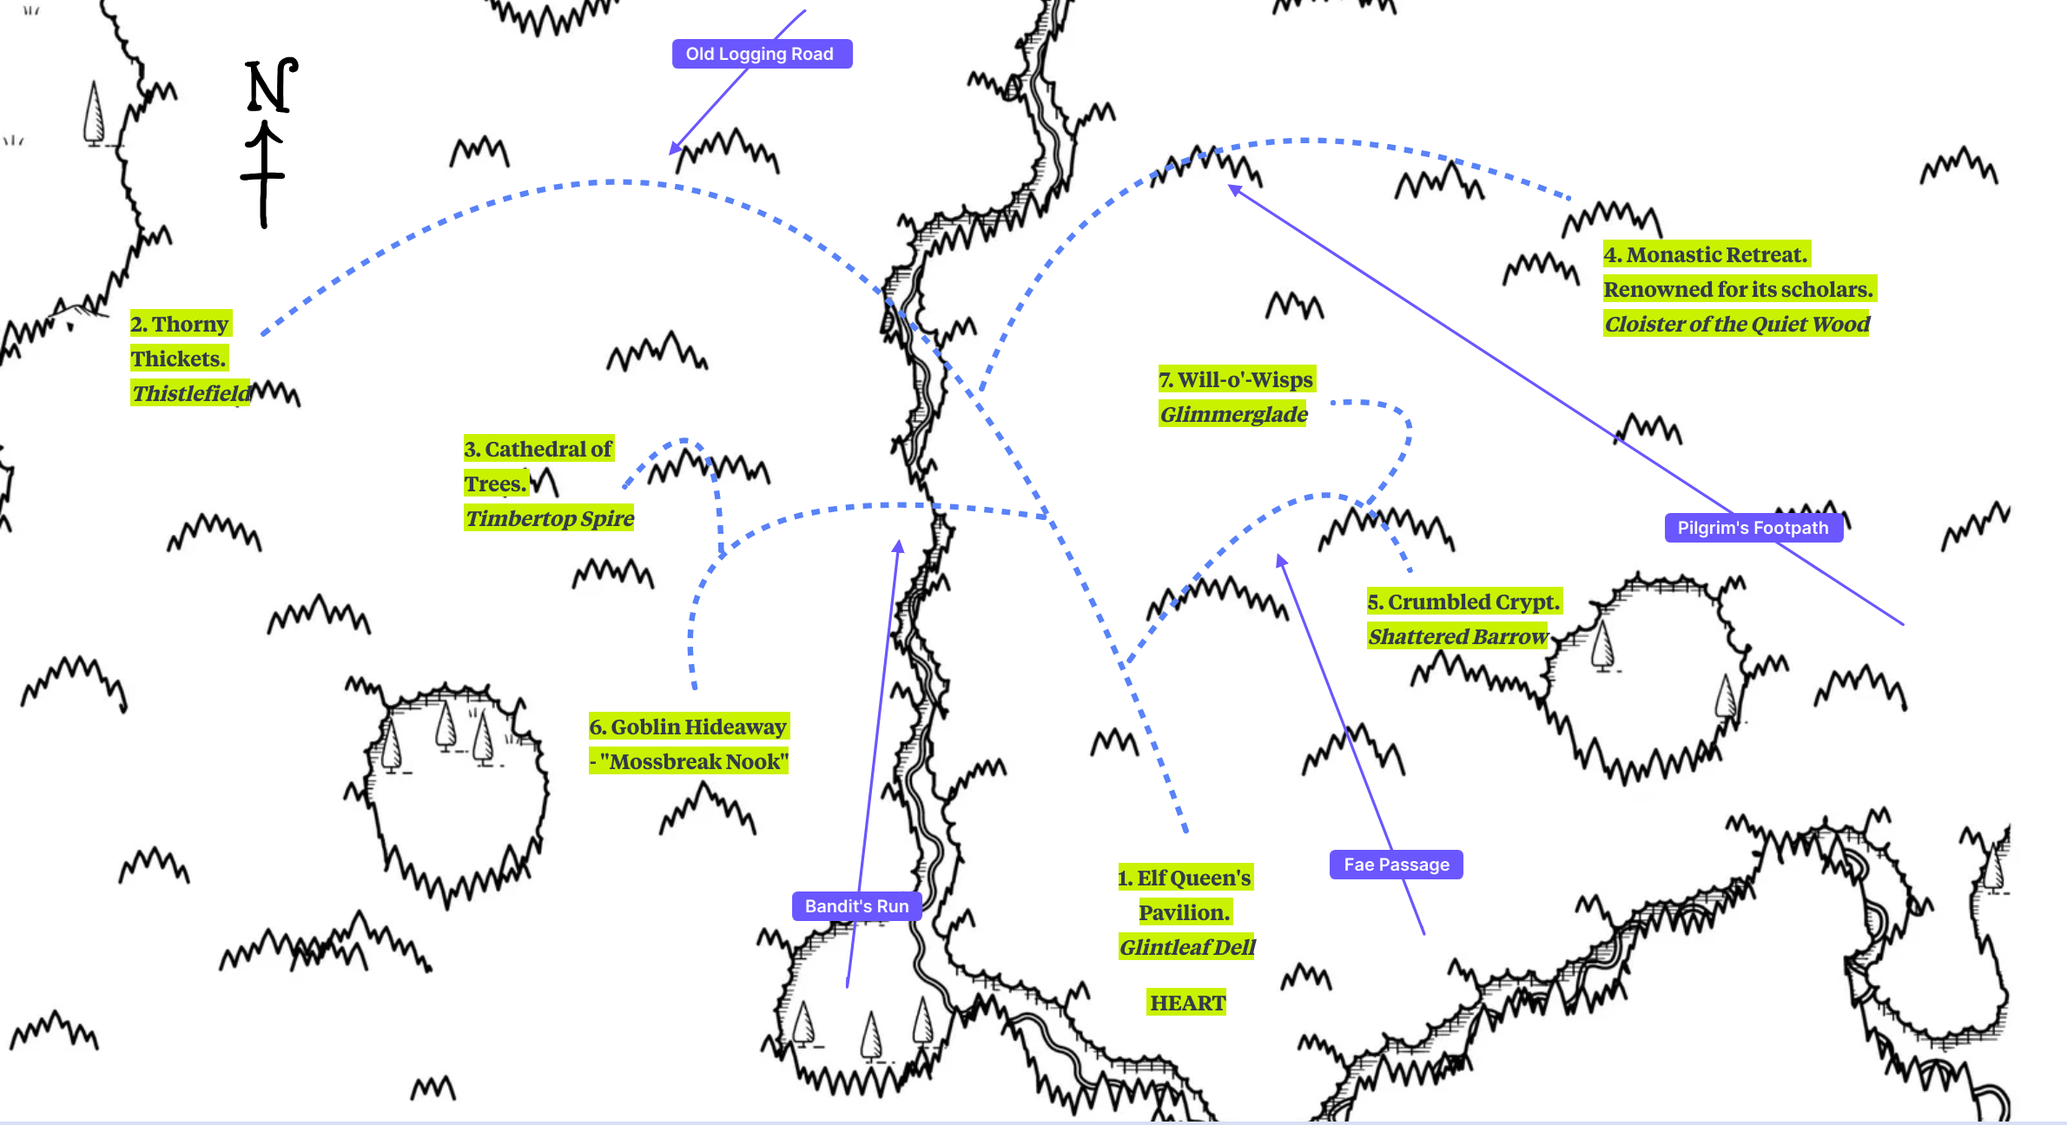
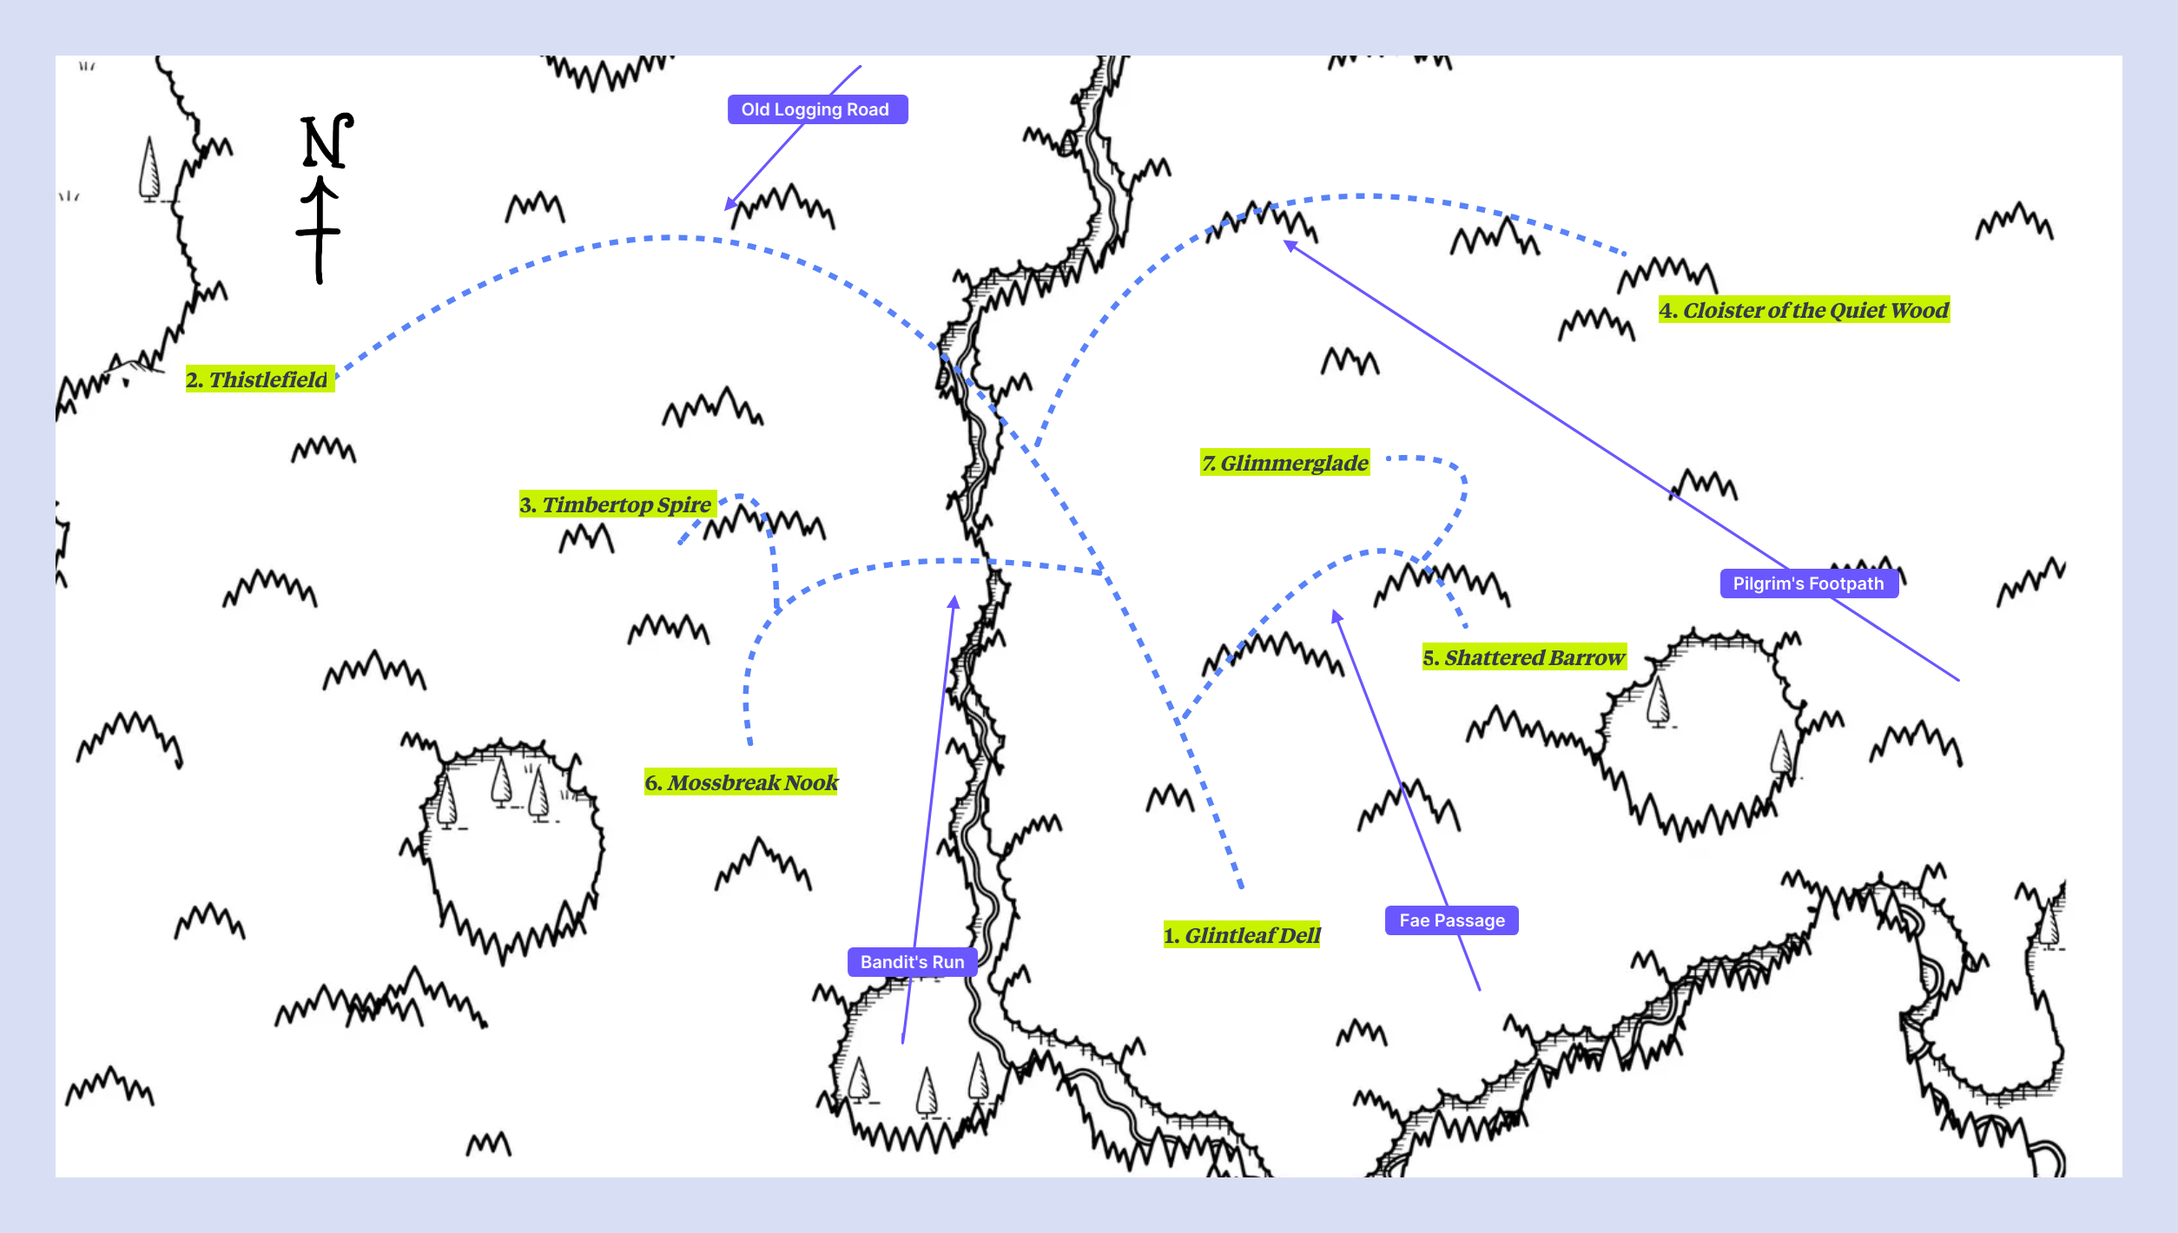
added forest names and updated example

diff --git a/wip/2e/forestcrawl.md b/wip/2e/forestcrawl.md
@@ -23,7 +23,7 @@ grand_parent: WIP
 
 > If the party is interrupted, stops to investigate something, rest, etc while exploring a forested zone, there may not be enough time to fully explore every connected **Detail**. In these cases, rely on the fiction and common sense to determine how much time is left in the day. 
 
-## Create The Forest
+## Draw The Trails
 
 1. On a flat sheet of paper, draw a dot to signify the forest's **Heart**.
 2. Draw a single curving line stemming out from the **Heart**. This is the **trunk**. 
@@ -34,12 +34,57 @@ grand_parent: WIP
 
 > If you'd like to increase the number of **Details** on the map, you can either add more **branches** and **twigs**, or place a dot at the intersection of lines, e.g. where the **trunk** meets a **branch**.
 
-### Populating The Forest
+### Create The Forest
 
-1. Follow the instructions found in the [Details](#details) section.
-2. Roll on the [Trail Markers](#trail-markers) table for the **trunk**, as well as each **branch**. **Twigs** use same trails as their respective **branches**.  Label each trail!
-3. Roll on the [Spoor Types](#spoor-types) table for every trail. Note the **spoor** for each.
-4. Roll on the [Forest Encounters](#forest-encounters) table fore each [Detail](#detail), recording and expanding on the results. 
+1. Roll on the [Trail Markers](#trail-markers) table for the **trunk**, as well as each **branch**. **Twigs** use same trails as their respective **branches**. Label each trail!
+2. Roll on the [Spoor Types](#spoor-types) table for every trail. Note the **spoor** for each.
+3. Follow the instructions [Details](#details) section to create **Details** for each dot.
+4. Roll on the [Forest Encounters](#forest-encounters) table for each [Detail](#detail), recording and expanding on the results. 
+5. Name each [**Detail**](#naming-details), and the [Forest](#name-the-forest) itself.
+
+### Trail Markers
+
+|        |                        |
+| ------ | ---------------------- |
+| **d6** | **Marker**             |
+| **1**  | **Animal Path**        |
+| **2**  | **Merchant's Road**    |
+| **3**  | **Fae Passage**        |
+| **4**  | **Bandit's Run**       |
+| **5**  | **Pilgrim's Footpath** |
+| **6**  | **Old Logging Road**   |
+| **7**  | **Trail Tree**         |
+| **8**  | **Treeline Heights**   |
+| **9**  | **Cloistered Grove**   |
+| **10** | **River Gulch**        |
+| **11** | **Spore Saturated**    |
+| **12** | **War Route**          |
+
+### Spoor Types 
+
+|         |                               |
+| ------- | ----------------------------- |
+| **d20** | **Spoor**                     |
+| **1**   | **Distant Singing**           |
+| **2**   | **Badger Holes**              |
+| **3**   | **Serpent Traces**            |
+| **4**   | **Enormous Footprints**       |
+| **5**   | **Rabbit Droppings**          |
+| **6**   | **Animals Acting Strangely**  |
+| **7**   | **Large Bird Feathers**       |
+| **8**   | **Fox Prints**                |
+| **9**   | **Faint Laughter**            |
+| **10**  | **Bear Rubbings**             |
+| **11**  | **A smoldering campsite**     |
+| **12**  | **Fresh Spiderwebs**          |
+| **13**  | **Archaic Tree Carvings**     |
+| **14**  | **Dozens Of Stone Piles**     |
+| **15**  | **Claw Marks**                |
+| **16**  | **Phosphorescent Toadstools** |
+| **17**  | **Deer Tracks**               |
+| **18**  | **Swaying Plants**            |
+| **19**  | **Peripheral Images**         |
+| **20**  | **Muted Bells**               |
 
 ## Details
 
@@ -212,6 +257,35 @@ grand_parent: WIP
 | **19**  | **Guardian**              |
 | **20**  | **Bloom Field**           |
 
+
+### Creating Forest Encounters
+
+#### Forest Encounters
+
+|         |                                                                                |
+| ------- | ------------------------------------------------------------------------------ |
+| **d20** | **Encounter**                                                                  |
+| **1**   | An enormous deer, its antlers shimmering silver.                               |
+| **2**   | The remnants of an old watchtower hidden dense forest growth.                  |
+| **3**   | A snarling pack of wolves surrounding a fresh kill.                            |
+| **4**   | Suddenly, the usual sounds of nature eerily absent.                            |
+| **5**   | A wide river where otters are playing with something shiny.                    |
+| **6**   | A circle of perfect mushrooms. Blue-white wings flutter between.               |
+| **7**   | A gnarled tree trunk bearing an uncannily carved face on its trunk.            |
+| **8**   | Naiads splashing in a small pond. Their teeth are fanged, like daggers.        |
+| **9**   | A hillside cave, wafting the scent of damp and decay.                          |
+| **10**  | A trap, hastily set and poorly concealed.                                      |
+| **11**  | A tree acting as makeshift bridge over a glittering stream.                    |
+| **12**  | Bees swarm protectively around a tree brimming with honeycombs.                |
+| **13**  | Wild berries grow in abundance, a feast for foragers.                          |
+| **14**  | Shadowy figures dart between the trees. Hushed voices call out to one another. |
+| **15**  | A wounded animal, whining pitifully as it limps.                               |
+| **16**  | A spectacular waterfall, rainbows dancing in its spray.                        |
+| **17**  | A dense thicket of thorns, nearly impassable.                                  |
+| **18**  | A patch of quicksand disguised as soft ground.                                 |
+| **19**  | A bird circles ominously overhead. It seems to be following the party.         |
+| **20**  | The sky is suddenly darkened by a large object streaking above.                |
+
 ## Naming Details
 
 1. Roll a d100 on the [Location Names](#location-names) table twice, first for the adjective and then for the noun. 
@@ -222,7 +296,7 @@ grand_parent: WIP
 - Use contrasting words (e.g. _Twisted Canopy_) to evoke an interesting detail about the location.
 - Make it sound nice. Alliteration and pleasing combinations can create pleasant sounds. _Whispering Woods_ is more pleasing to the ear than _Tangled Woods._ 
 
-### Location Names
+### Detail Names
 
 |          |               |             |
 | -------- | ------------- | ----------- |
@@ -328,84 +402,50 @@ grand_parent: WIP
 | **99**   | Forsaken      | Cemetery    |
 | **100**  | Grassy        | Waterfall   |
 
-#### Trail Markers
+### Forest Names
 
-|        |                        |
-| ------ | ---------------------- |
-| **d6** | **Marker**             |
-| **1**  | **Animal Path**        |
-| **2**  | **Merchant's Road**    |
-| **3**  | **Fae Passage**        |
-| **4**  | **Bandit's Run**       |
-| **5**  | **Pilgrim's Footpath** |
-| **6**  | **Old Logging Road**   |
-| **7**  | **Trail Tree**         |
-| **8**  | **Treeline Heights**   |
-| **9**  | **Cloistered Grove**   |
-| **10** | **River Gulch**        |
-| **11** | **Spore Saturated**    |
-| **12** | **War Route**          |
+|         |               |             |
+| ------- | ------------- | ----------- |
+| **d66** | **Adjective** | **Noun**    |
+| **11**  | Lost          | Woods       |
+| **12**  | Secluded      | Dell        |
+| **13**  | Towering      | Trails      |
+| **14**  | Dappled       | Waterfall   |
+| **15**  | Rustling      | Coppice     |
+| **16**  | Mystic        | Weald       |
+| **21**  | Evergreen     | Sanctuary   |
+| **22**  | Solitary      | Shroud      |
+| **23**  | Fertile       | Veil        |
+| **24**  | Quiet         | Honeysuckle |
+| **25**  | Shadowy       | Ivy         |
+| **26**  | Thorny        | Kestrel     |
+| **31**  | Vibrant       | Loam        |
+| **32**  | Verdant       | Mushrooms   |
+| **33**  | Yellowed      | Nightshade  |
+| **34**  | Bountiful     | Owlet       |
+| **35**  | Silent        | Pinecone    |
+| **36**  | Dewy          | Quail       |
+| **41**  | Fluttering    | Raindrop    |
+| **42**  | Glistening    | Squirrel    |
+| **43**  | Harmonious    | Upland      |
+| **44**  | Inhabited     | Yarrow      |
+| **45**  | Jubilant      | Copse       |
+| **46**  | Whispering    | Bramble     |
+| **51**  | Looming       | Gully       |
+| **52**  | Nurturing     | Thicket     |
+| **53**  | Overgrown     | Clearing    |
+| **54**  | Pristine      | Grove       |
+| **55**  | Whistling     | Pines       |
+| **56**  | Shadowed      | Canopy      |
+| **61**  | Emerald       | Leaves      |
+| **62**  | Moss-covered  | Hollow      |
+| **63**  | Shimmering    | Trail       |
+| **64**  | Blossoming    | Ferns       |
+| **65**  | Amber         | Orchard     |
+| **66**  | Forgotten     | Glade       |
 
-### Spoor Types 
-
-|         |                               |
-| ------- | ----------------------------- |
-| **d20** | **Spoor**                     |
-| **1**   | **Distant, Haunting Singing** |
-| **2**   | **Badger Holes**              |
-| **3**   | **Serpent Traces**            |
-| **4**   | **Enormous Footprints**       |
-| **5**   | **Rabbit Droppings**          |
-| **6**   | **Animals Acting Strangely**  |
-| **7**   | **Large Bird Feathers**       |
-| **8**   | **Fox Prints**                |
-| **9**   | **Faint Laughter**            |
-| **10**  | **Bear Rubbings**             |
-| **11**  | **A smoldering campsite**     |
-| **12**  | **Fresh Spiderwebs**          |
-| **13**  | **Archaic Tree Carvings**     |
-| **14**  | **Dozens Of Stone Piles**     |
-| **15**  | **Claw Marks**                |
-| **16**  | **Phosphorescent Toadstools** |
-| **17**  | **Deer Tracks**               |
-| **18**  | **Swaying Plants**            |
-| **19**  | **Peripheral Images**         |
-| **20**  | **Muted Bells**               |
-
-### Forest Encounters
-
-|         |                                                                                |
-| ------- | ------------------------------------------------------------------------------ |
-| **d20** | **Encounter**                                                                  |
-| **1**   | An enormous deer, its antlers shimmering silver.                               |
-| **2**   | The remnants of an old watchtower hidden dense forest growth.                  |
-| **3**   | A snarling pack of wolves surrounding a fresh kill.                            |
-| **4**   | Suddenly, the usual sounds of nature eerily absent.                            |
-| **5**   | A wide river where otters are playing with something shiny.                    |
-| **6**   | A circle of perfect mushrooms. Blue-white wings flutter between.               |
-| **7**   | A gnarled tree trunk bearing an uncannily carved face on its trunk.            |
-| **8**   | Naiads splashing in a small pond. Their teeth are fanged, like daggers.        |
-| **9**   | A hillside cave, wafting the scent of damp and decay.                          |
-| **10**  | A trap, hastily set and poorly concealed.                                      |
-| **11**  | A tree acting as makeshift bridge over a glittering stream.                    |
-| **12**  | Bees swarm protectively around a tree brimming with honeycombs.                |
-| **13**  | Wild berries grow in abundance, a feast for foragers.                          |
-| **14**  | Shadowy figures dart between the trees. Hushed voices call out to one another. |
-| **15**  | A wounded animal, whining pitifully as it limps.                               |
-| **16**  | A spectacular waterfall, rainbows dancing in its spray.                        |
-| **17**  | A dense thicket of thorns, nearly impassable.                                  |
-| **18**  | A patch of quicksand disguised as soft ground.                                 |
-| **19**  | A bird circles ominously overhead. It seems to be following the party.         |
-| **20**  | The sky is suddenly darkened by a large object streaking above.                |
 
 ## Example Forest
-
-### Draw Trails
-
-- We start by creating the structure of our forest, drawing the first dot representing the **Heart** in the center, Southern part of the region.
-- We then draw the **trunk**, creating a gentle curve towards the Northwest.
-- Then we draw three **branches** extending from the **trunk**, one towards the East (closer to the **Heart**) and the other towards the West and further North. 
-- Finally we draw a single **twig** off of each **branch**.
 
 ### Number Dots
 
@@ -416,6 +456,13 @@ grand_parent: WIP
 - `4`, `5`, and `6`, are each at the end of a **branch**.
 - `3` and `7` are each at the end of **twigs**, to the East and West of the **trunk** respectively. 
 
+### Draw Trails
+
+- We start by creating the structure of our forest, drawing the first dot representing the **Heart** in the center, Southern part of the region.
+- We then draw the **trunk**, creating a gentle curve towards the Northwest.
+- Then we draw three **branches** extending from the **trunk**, one towards the East (closer to the **Heart**) and the other towards the West and further North. 
+- Finally we draw a single **twig** off of each **branch**.
+
 ### Assign Trail Markers
 
 For the **trunk** as well as each **branch** and **twig**, we'll roll on the **Trail Markers** table (**d12**):
@@ -424,11 +471,18 @@ For the **trunk** as well as each **branch** and **twig**, we'll roll on the **T
   - For the Eastern **branch** closest to the **Heart** we got a **3** (_Fae Passage_).
   - For the Western **branch** closest to the **Heart** we got a **4** (_Bandit's Run_).
   - For the Eastern **branch** farthest from the **Heart** we got a **5** (_Pilgrim's Footpath_).
-  
+
+### Assign Trail Spoor
+
+- For each Trail we roll on the [Spoor Types](#spoor-types) table. 
+- For the _Old Logging Road_ we rolled a **4** (Enormous Footprints).
+- For the _Fae Passage_ we rolled a **12** (Fresh Spiderwebs).
+- For the _Bandit's Run_ we rolled a **13** (Archaic Tree Carvings).
+- For the _Pilgrim's Footpath_ we rolled an **18** (Swaying Plants).
+
 ### Assign Details
 
-Next we'll roll on the provided tables to generate features for each **Detail**.
-- First up is the **Heart (1)**, and we roll on the [Special](#special) table (**d20**). We got an **11** (_Elf Queen's Pavilion_).
+Next we'll roll on the provided tables to generate features for each **Detail**. First create the **Heart (1)** by rolling on the [Special](#special) table (**d20**). We got an **11** (_Elf Queen's Pavilion_).
 
 For each remaining **Detail**, we first roll on the [Detail Types](#detail-types) table, then on the associated table:
 - **Detail (2)**: We roll a **d6**: a **4** (Hazard). Now we roll a **d12** on the [Hazards](#hazards) table: a **6** (_Thorny Thickets_).
@@ -438,9 +492,21 @@ For each remaining **Detail**, we first roll on the [Detail Types](#detail-types
 - **Detail (6)**: We roll a **d6**: **3** (Lair). Roll a **d12** on the [Lairs](#lairs) table: an **8** (_Goblin Hideaway_).
 - **Detail (7)**: We roll a **d6**: **6** (Special). Roll a **d20** on the Special table: a **5** (_Will-o'-Wisps_).
 
+### Create Encounters
+
+Next, we create forest encounters by rolling a **d20** on the [Forest Encounters](#forest-encounters) table for each **Detail**.
+
+1. We roll an **8**: _Naiads splashing in a small pond. Their teeth are fanged, like daggers._
+2. We roll a **17**: _A dense thicket of thorns, nearly impassable._
+3. We roll a **15**: _A wounded animal, whining pitifully as it limps._
+4. We roll a **2**: _The remnants of an old watchtower hidden in dense forest growth._
+5. We roll a **7**: _A gnarled tree trunk bearing an uncannily carved face on its trunk._
+6. We roll a **3**: _A snarling pack of wolves surrounding a fresh kill._
+7. We roll a **6**: _A circle of perfect mushrooms. Blue-white wings flutter between._
+
 ### Detail Naming
 
-Finally, we'll name each **Detail** using the [Location Names](#location-names) table. I took some liberties here, smashing together words I liked with random words.
+We will now name each **Detail** using the [Detail Names](#detail-names) table. I took some liberties here, smashing together words I liked with random words.
 
 1. **Heart (Elf Queen's Pavilion)**: _Glintleaf Dell_
 2. **(Thorny Thickets)**: _Thistlefield_
@@ -450,7 +516,34 @@ Finally, we'll name each **Detail** using the [Location Names](#location-names) 
 6. **(Goblin Hideaway)**: _Mossbreak Nook_
 7. **(Will-o'-Wisps)**: _Glimmerglade_
 
-### Example Map
+### Naming Our Forest
+
+Finally, we roll on the [Forest Names](#forest-names) table.
+
+- On the [Forest Names](#forest-names) table, we roll a a **** and a ****. 
+
+### Conclusion 
+
+#### [Forest Name Here]
+
+#### [Forest Name] Trails
+
+- _Old Logging Road_: Runs Northwest, connecting **Glintleaf Dell** to **Thistlefield**. Heavy with enormous footprints.
+- _Fae Passage_: Runs Northeast, an offshoot of the _Old Logging Road_. Connects to **Shattered Barrow** and **Glimmerglade**. Covered in fresh spiderwebs.
+- _Bandit's Run_: Runs West, offshoot of the _Old Logging Road_. Connects to **Timpertop Spire** and **Mossbreak Nook**. Archaic tree carvings line the path.
+- _Pilgrim's Footpath_: Runs East from the _Old Logging Road_. Ends at the **Cloister of the Quiet Wood**. Odd, swaying plants line both sides of the trail.
+
+##### [Forest Name] Points of Interest
+
+1. **Glintleaf Dell**: The heart of the forest. In the center is a small pond, where Naiads splash in a small pond with teeth fanged like daggers. Just beyond palatial, stone stage is built, topped by a gold-leaf arch. Here, the Elf Queen meets her subjects.
+2. **Thistlefield**: Overrun with thick bush, forming a dense thicket of thorns that is nearly impassable. Acts as a barrier of sorts, as just beyond lie the wide meadows of the West.
+3. **Timbertop Spire**: A heavily wooded area featuring tall, majestic oak trees arranged in an unnatural albeit pleasing fashion, evoking a feelilng of reverence in its visitors. A wounded animal whines pitifully within the grove. 
+4. **Cloister of the Quiet Wood**: A monastery built into an old military outpost. The only items allowed beyond the decrepit watch tower standing before it are books, as this particular order is well-known for its scholarly research.
+5. **Shattered Barrow**: A collapsed crypt, covered in moss and ivy. An ugly, scarred face is carved into an enormous oak tree nearby.
+6. **Mossbreak Nook**: A Goblin hideout, completely hidden by the heavily-mossed trees surrounding it. In a small nearby glade a pack of snarling wolves surrounds a freshly killed fae-touched deer.
+7. **Glimmerglade**: A lovely meadow nestled beneath an impressive willow tree. In the center, blue-white wings flutter about over a circle of perfect red mushrooms. At night, Will-o'-Wisps descend from the willow's boughs, and feast.
+
+### [Forest Name] Map
 
 And that's it! Here is the final map. I've added a backdrop from the wonderful [Perilous Shores](https://watabou.itch.io/perilous-shores) to give it more flavor. 
 
